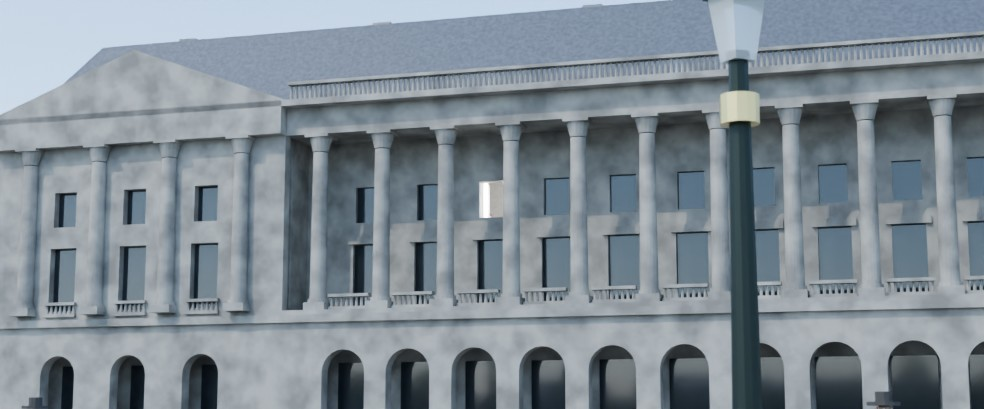
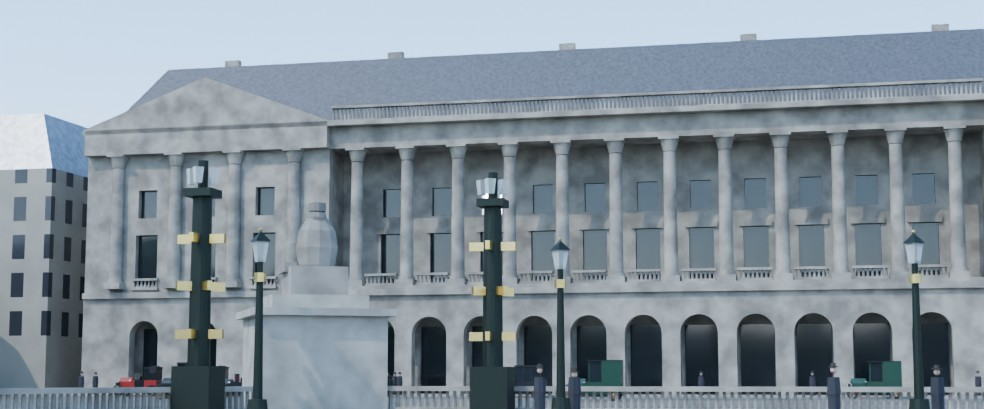
Concorde 1925 : place réorientée (212 m est-ouest, 359 m nord-sud)
Origine sur la coordonnée de l'obélisque fournie (48,8654948 ; 2,3211384).
Vérification des repères alentour : grille des Tuileries à 101 m à l'est,
chevaux de Marly à 110 m à l'ouest, statues des villes (octogone allongé
nord-sud), fontaines à 62 m, façades de Gabriel à 176 m, Jeu de Paume et
Orangerie, Petit Palais, Grand Palais, pont Alexandre-III recalés, Seine
au droit du pont de la Concorde. Trajectoires adaptées, vue de dessus.

Claude-Session: https://claude.ai/code/session_019p2ABcVa9ZL66LVkkoYHSq

diff --git a/blender/concorde_1925/geo.py b/blender/concorde_1925/geo.py
@@ -21,9 +21,9 @@ from __future__ import annotations
 
 import math
 
-# Obélisque de Louxor (Wikimedia Commons : 48° 51′ 55,71″ N, 2° 19′ 16,08″ E)
-LAT0 = 48.865475
-LON0 = 2.321133
+# Obélisque de Louxor (coordonnée fournie par la production)
+LAT0 = 48.8654948
+LON0 = 2.3211384
 AXIS_AZIMUTH_DEG = 25.6  # azimut de +V (0° = nord, sens horaire)
 
 M_PER_DEG_LAT = 111_200.0
@@ -41,25 +41,32 @@ def latlon_to_place(lat: float, lon: float) -> tuple[float, float]:
 
 
 # --- La place ---------------------------------------------------------------
-# Emprise totale de la place, fossés de Gabriel compris (comblés en 1854) :
-# 359 × 212 m.
-PLACE_HALF_U = 179.5
-PLACE_HALF_V = 106.0
+# La place mesure 212 m d'est en ouest (de la grille des Tuileries aux chevaux
+# de Marly) et 359 m du nord au sud (des façades de Gabriel au parapet de la
+# Seine). Positions de contrôle, en mètres dans le repère place :
+#   grille des Tuileries / pont tournant (48,865089 N ; 2,322375 E) → u = +101
+#   Renommée de Coysevox (48,865278 N ; 2,322500 E)               → (100, 21)
+#   statue de Strasbourg (48,86580 N ; 2,32270 E)                  → (88, 80)
+#   statue de Brest (48,86650 N ; 2,32060 E)                       → (-84, 84)
+#   statue de Lille (48,86620 N ; 2,32270 E)                       → (69, 120)
+#   statue de Rouen (48,86670 N ; 2,32100 E)                       → (-68, 119)
+#   statue de Marseille (48,864223 N ; 2,321256 E)                 → (68, -122)
+# Emprise de la place, anciens fossés compris (comblés en 1854).
+PLACE_HALF_U = 106.0
+PLACE_HALF_V = 140.0
 # Octogone intérieur bordé de balustrades ; les guérites des huit statues des
-# villes occupent ses sommets. Les statues de Strasbourg (48,86580 N ;
-# 2,32270 E) et de Brest (48,86650 N ; 2,32060 E) donnent le côté nord à
-# v ≈ 85 m, u ≈ ±86 m ; les fossés faisaient une vingtaine de mètres de large,
-# d'où les côtés est et ouest à u ≈ ±160 m.
-PLACE_INNER = [(86.0, -85.0), (160.0, -35.0), (160.0, 35.0), (86.0, 85.0),
-               (-86.0, 85.0), (-160.0, 35.0), (-160.0, -35.0), (-86.0, -85.0)]
-# Statue de chaque sommet de PLACE_INNER, dans le même ordre.
-PLACE_INNER_STATUES = ("Marseille", "Lyon", "Lille", "Strasbourg",
-                       "Brest", "Rouen", "Nantes", "Bordeaux")
+# villes occupent ses sommets (ordre trigonométrique depuis le sud-est).
+PLACE_INNER = [(69.0, -120.0), (87.0, -81.0), (87.0, 81.0), (69.0, 120.0),
+               (-69.0, 120.0), (-87.0, 81.0), (-87.0, -81.0), (-69.0, -120.0)]
+PLACE_INNER_STATUES = ("Marseille", "Lyon", "Strasbourg", "Lille",
+                       "Rouen", "Brest", "Nantes", "Bordeaux")
+TUILERIES_GATE_U = 101.0
+MARLY_U = -110.0
 
 # Fontaines de Hittorff (1840), sur l'axe rue Royale / pont
-# (Fontaine des Fleuves : 48,865992 N ; 2,321506 E → 64 m de l'obélisque).
-FOUNTAIN_NORTH_V = 64.0   # Fontaine des Fleuves
-FOUNTAIN_SOUTH_V = -64.0  # Fontaine des Mers
+# (Fontaine des Fleuves : 48,865992 N ; 2,321506 E).
+FOUNTAIN_NORTH_V = 62.0   # Fontaine des Fleuves
+FOUNTAIN_SOUTH_V = -62.0  # Fontaine des Mers
 
 # Obélisque (sans le pyramidion doré, posé en 1998).
 OBELISK_SHAFT_H = 22.83
@@ -69,9 +76,10 @@ OBELISK_PEDESTAL_H = 9.2
 
 # --- Palais de Gabriel (Hôtel de la Marine à l'est, Crillon à l'ouest) ------
 # Façade sur la place (plan des colonnes) et profondeur des bâtiments.
-# Centres des bâtiments : Hôtel de la Marine (48,866778 N ; 2,323083 E) et
-# Crillon (48,867337 N ; 2,321149 E), soit v ≈ 190 m pour ~85 m de profondeur.
-GABRIEL_FACADE_V = 148.0
+# Repères : Hôtel de la Marine (48,866778 N ; 2,323083 E) → (67, 190) et
+# Crillon (48,867337 N ; 2,321149 E) → (-88, 185) ; la façade ferme la place à
+# 176 m au nord (359 m jusqu'au parapet de la Seine).
+GABRIEL_FACADE_V = 176.0
 GABRIEL_DEPTH = 75.0
 RUE_ROYALE_HALF_W = 14.0
 GABRIEL_WIDTH = 96.0  # chaque palais
@@ -94,7 +102,7 @@ SEINE_AXIS_LATLON = (
     (48.85840, 2.33400),  # pont du Carrousel
     (48.85960, 2.32900),  # pont Royal
     (48.86160, 2.32420),  # passerelle Solférino
-    (48.86330, 2.32000),  # pont de la Concorde (centre : 48,8635 N ; 2,3196 E)
+    (48.86346, 2.32000),  # pont de la Concorde (centre : 48,8635 N ; 2,3196 E)
     (48.86380, 2.31700),
     (48.86370, 2.31350),  # pont Alexandre-III
     (48.86300, 2.30980),  # pont des Invalides
@@ -109,13 +117,13 @@ PALAIS_BOURBON_PORTICO_V = -365.0  # centre du palais : 48,862069 N ; 2,318681 E
 MADELEINE_V = latlon_to_place(48.87003, 2.32447)[1]  # centre de l'église
 INVALIDES_DOME = latlon_to_place(48.85500, 2.31250)
 TOUR_EIFFEL = latlon_to_place(48.85837, 2.29448)
-GRAND_PALAIS = latlon_to_place(48.86612, 2.31253)
-PETIT_PALAIS = latlon_to_place(48.86604, 2.31476)
-PONT_ALEXANDRE_III = latlon_to_place(48.86370, 2.31350)
-# Terrasses des Tuileries : bâtiments posés au bord est de la place.
-JEU_DE_PAUME = (232.0, 88.0)
-ORANGERIE = (232.0, -98.0)
-RIVOLI_FACADE_V = 135.0         # alignement des arcades de la rue de Rivoli
+GRAND_PALAIS = latlon_to_place(48.866161, 2.312553)
+PETIT_PALAIS = latlon_to_place(48.86604, 2.31453)
+PONT_ALEXANDRE_III = latlon_to_place(48.863611, 2.313611)
+# Terrasses des Tuileries, en surplomb du bord est de la place.
+JEU_DE_PAUME = latlon_to_place(48.86583, 2.32389)
+ORANGERIE = latlon_to_place(48.86378, 2.32253)
+RIVOLI_FACADE_V = 160.0         # alignement des arcades de la rue de Rivoli
 CHAMPS_ELYSEES_HALF_W = 35.0
 
 # --- Date et lieu de la prise de vues --------------------------------------

diff --git a/blender/concorde_1925/city.py b/blender/concorde_1925/city.py
@@ -189,8 +189,9 @@ def place_layout(coll, M):
     inner = inset_outline(outer, 10.0)
     bm = bmesh.new()   # 0 trottoir, 1 pierre (balustrades)
     lamp_pts, rostral_pts, vertices, baluster_pts = [], [], [], []
-    gaps = {3: 17.0, 7: 17.0}      # rue Royale au nord, pont au sud
-    skip = {1, 5}                  # côtés est (Tuileries) et ouest (Champs-Élysées)
+    # ouvertures : Tuileries (est), rue Royale (nord), Champs-Élysées (ouest), pont (sud)
+    gaps = {1: 30.0, 3: 17.0, 5: 30.0, 7: 17.0}
+    skip = set()
     for i in range(8):
         a0, a1 = Vector(outer[i]), Vector(outer[(i + 1) % 8])
         b0, b1 = Vector(inner[i]), Vector(inner[(i + 1) % 8])
@@ -238,8 +239,6 @@ def place_layout(coll, M):
             lamp_pts.append((14.5 * math.cos(a), v + 11.5 * math.sin(a)))
     # trottoirs devant les palais de Gabriel et le long des Tuileries
     add_box(bm, (0, geo.GABRIEL_FACADE_V - 4.0, 0.075), (440, 8.0, 0.15), 0)
-    for s in (-1, 1):
-        add_box(bm, (geo.PLACE_HALF_U + 4, s * 70, 0.075), (8, 70, 0.15), 0)
     obj = object_from_bmesh("TERRE_PLEINS_BALUSTRADES", bm, coll)
     obj.data.materials.append(M["trottoir"])
     obj.data.materials.append(M["pierre"])
@@ -253,27 +252,30 @@ def place_layout(coll, M):
 def tuileries_entrance(coll, M):
     """Terrasses du Jeu de Paume et de l'Orangerie, grille et Renommées."""
     bm = bmesh.new()  # 0 pierre, 1 gravier, 2 vitre, 3 ardoise
-    x0 = geo.PLACE_HALF_U + 8
-    for s, (cu, cv) in ((1, geo.JEU_DE_PAUME), (-1, geo.ORANGERIE)):
-        v_in, v_out = s * 26, s * 110
+    x0 = geo.TUILERIES_GATE_U + 5   # mur de soutènement des terrasses
+    for s, (cu, cv), length, (v_in, v_out) in (
+            (1, geo.JEU_DE_PAUME, 80.0, (92.0, 140.0)),
+            (-1, geo.ORANGERIE, 100.0, (-92.0, -148.0))):
         add_box(bm, (x0 + 175, (v_in + v_out) / 2, 2.5),
                 (350, abs(v_out - v_in), 5.0), 0)
         add_box(bm, (x0 + 175, (v_in + v_out) / 2, 5.02),
                 (348, abs(v_out - v_in) - 2, 0.04), 1)
-        # bâtiment (Jeu de Paume / Orangerie) : 100 × 18 m
-        add_box(bm, (cu, cv, 5 + 6.0), (100, 18, 12.0), 0)
-        add_prism(bm, [(cu - 50, cv - 9), (cu + 50, cv - 9), (cu + 50, cv + 9),
-                       (cu - 50, cv + 9)], 17.0, 20.0, 3,
-                  top_outline=[(cu - 47, cv - 2), (cu + 47, cv - 2),
-                               (cu + 47, cv + 2), (cu - 47, cv + 2)])
-        for k in range(12):
-            add_box(bm, (cu - 44 + k * 8, cv - s * 9.05, 11.0),
+        # bâtiment (Jeu de Paume / Orangerie), 20 m de large
+        h = length / 2
+        add_box(bm, (cu, cv, 5 + 6.0), (length, 20, 12.0), 0)
+        add_prism(bm, [(cu - h, cv - 10), (cu + h, cv - 10), (cu + h, cv + 10),
+                       (cu - h, cv + 10)], 17.0, 20.0, 3,
+                  top_outline=[(cu - h + 3, cv - 2), (cu + h - 3, cv - 2),
+                               (cu + h - 3, cv + 2), (cu - h + 3, cv + 2)])
+        for k in range(int(length / 8) - 1):
+            add_box(bm, (cu - h + 6 + k * 8, cv - s * 10.05, 11.0),
                     (2.4, 0.1, 6.5), 2)
         # pilier de la grille portant une Renommée de Coysevox
-        add_box(bm, (x0 + 2, s * 20, 3.0), (3.0, 3.0, 6.0), 0)
-        add_sphere(bm, (x0 + 2, s * 20, 7.5), 1.2, 0, 10, (1.6, 0.8, 1.0))
-        add_box(bm, (x0 + 2, s * 20 + s * 0.4, 9.0), (0.5, 3.4, 1.6), 0)
-    add_box(bm, (x0 + 700, 0, -0.05), (1400, 52, 0.1), 1)  # allée centrale
+        gx = geo.TUILERIES_GATE_U
+        add_box(bm, (gx, s * 21, 3.0), (3.0, 3.0, 6.0), 0)
+        add_sphere(bm, (gx, s * 21, 7.5), 1.2, 0, 10, (1.6, 0.8, 1.0))
+        add_box(bm, (gx, s * 21 + s * 0.4, 9.0), (0.5, 3.4, 1.6), 0)
+    add_box(bm, (x0 + 700, 0, 0.02), (1400, 52, 0.04), 1)  # allée centrale
     obj = object_from_bmesh("TUILERIES_TERRASSES", bm, coll)
     for m in (M["pierre_claire"], M["gravier"], M["vitre"], M["ardoise"]):
         obj.data.materials.append(m)
@@ -283,7 +285,7 @@ def marly_horses(coll, M):
     """Chevaux de Marly (Coustou) à l'entrée des Champs-Élysées."""
     bm = bmesh.new()
     for s in (-1, 1):
-        x, y = -geo.PLACE_HALF_U - 4, s * (geo.CHAMPS_ELYSEES_HALF_W + 4)
+        x, y = geo.MARLY_U, s * (geo.CHAMPS_ELYSEES_HALF_W + 4)
         add_box(bm, (x, y, 2.5), (5.0, 7.0, 5.0), 0)
         add_box(bm, (x, y, 5.15), (5.6, 7.6, 0.3), 0)
         add_sphere(bm, (x, y, 7.0), 1.1, 0, 12, (1.0, 2.4, 1.1))      # corps
@@ -482,7 +484,7 @@ def city_blocks(coll, M, seed=1925):
                    rnd.uniform(19, 22), rnd)
             v += d + 0.3
     # Rue de Rivoli (arcades) au nord des Tuileries
-    u = 130
+    u = 170
     while u < 1300:
         w = rnd.uniform(30, 45)
         _block(bm, u + w / 2, geo.RIVOLI_FACADE_V + 22, w, 44, 21.0, rnd,

diff --git a/blender/concorde_1925/vegetation.py b/blender/concorde_1925/vegetation.py
@@ -70,29 +70,31 @@ def plant(coll, M, seed=1925):
             while v <= v1:
                 if rnd.random() < keep:
                     pts.append((u + rnd.uniform(-jitter, jitter),
-                                v + rnd.uniform(-jitter, jitter)))
+                                v + rnd.uniform(-jitter, jitter), 0.0))
                 v += step
             u += step
 
-    def row(p0, p1, step):
+    def row(p0, p1, step, z=0.0):
         a, b = Vector(p0), Vector(p1)
         n = int((b - a).length / step)
         for i in range(n + 1):
             p = a.lerp(b, i / max(1, n))
-            pts.append((p.x, p.y))
+            pts.append((p.x, p.y, z))
 
     hw = geo.CHAMPS_ELYSEES_HALF_W
     # Jardins des Champs-Élysées (bosquets autour des pavillons, pelouses)
-    grid(-1150, -205, hw + 14, 175, 11, keep=0.75, jitter=3)
-    grid(-1150, -205, -230, -hw - 14, 11, keep=0.75, jitter=3)
+    w0 = geo.MARLY_U - 15
+    grid(-1150, w0, hw + 14, 175, 11, keep=0.75, jitter=3)
+    grid(-1150, w0, -230, -hw - 14, 11, keep=0.75, jitter=3)
     for s in (-1, 1):
-        row((-1300, s * (hw + 4)), (-200, s * (hw + 4)), 9)
-        row((-1300, s * (hw + 10)), (-200, s * (hw + 10)), 9)
+        row((-1300, s * (hw + 4)), (w0, s * (hw + 4)), 9)
+        row((-1300, s * (hw + 10)), (w0, s * (hw + 10)), 9)
     # Tuileries : quinconces de marronniers au-delà du Grand Bassin octogonal
-    grid(420, 1150, 32, 100, 9, keep=0.95, jitter=1)
-    grid(420, 1150, -100, -32, 9, keep=0.95, jitter=1)
-    for s in (-1, 1):
-        row((200, s * 104), (1150, s * 104), 8)
+    grid(420, 1150, 32, 86, 9, keep=0.95, jitter=1)
+    grid(420, 1150, -86, -32, 9, keep=0.95, jitter=1)
+    # alignements sur les terrasses (5 m au-dessus du jardin)
+    for s, v in ((1, 98.0), (-1, -98.0)):
+        row((250, v), (455, v), 8, z=5.0)
     # Quais (rangées de platanes) et Cours la Reine
     for k, p in enumerate(RIVER[:-1]):
         q = RIVER[k + 1]
@@ -107,7 +109,7 @@ def plant(coll, M, seed=1925):
                 x = c + n * side * off
                 if abs(x.x) < 30:
                     continue  # débouché du pont de la Concorde
-                pts.append((x.x, x.y))
+                pts.append((x.x, x.y, 0.0))
     # Esplanade des Invalides : quatre rangées dans l'axe
     du, dv = geo.INVALIDES_DOME
     bridge = Vector(geo.PONT_ALEXANDRE_III)
@@ -118,11 +120,11 @@ def plant(coll, M, seed=1925):
         row(base + axis_n * off, bridge - axis.normalized() * 90 + axis_n * off,
             10)
     n = 0
-    for u, v in pts:
+    for u, v, z in pts:
         if not _ok(u, v):
             continue
         p = rnd.choice(protos)
-        o = instance(p, f"ARBRE_{n:04d}", coll, (u, v, 0),
+        o = instance(p, f"ARBRE_{n:04d}", coll, (u, v, z),
                      rnd.uniform(0, math.tau), rnd.uniform(0.85, 1.25))
         o.hide_viewport = False
         n += 1

diff --git a/blender/concorde_1925/vehicles.py b/blender/concorde_1925/vehicles.py
@@ -489,28 +489,30 @@ def make_path(name, points, coll, frame_obj):
 # Trajectoires (repère place). Circulation à droite.
 ROUTES = {
     # Champs-Élysées → rue de Rivoli (vers l'est), au sud de l'obélisque
-    "CE_VERS_RIVOLI": [(-1100, -8), (-400, -8), (-170, -10), (-60, -22),
-                       (0, -24), (60, -22), (140, -18), (172, 0),
-                       (176, 100), (250, 122), (1300, 122)],
+    "CE_VERS_RIVOLI": [(-1100, -8), (-400, -8), (-110, -10), (-60, -22),
+                       (0, -24), (60, -22), (96, -10), (98, 60),
+                       (104, 140), (150, 148), (1300, 148)],
     # Quai des Tuileries → Champs-Élysées (vers l'ouest), au nord de l'obélisque
-    "QUAI_VERS_CE": [(1200, -150), (400, -150), (230, -140), (172, -30),
-                     (150, 20), (60, 24), (0, 26), (-60, 24), (-170, 10),
-                     (-400, 8), (-1100, 8)],
+    "QUAI_VERS_CE": [(1200, -187), (800, -214), (500, -186), (300, -165),
+                     (150, -155), (110, -120), (97, -60), (96, 24), (60, 24),
+                     (0, 26), (-60, 24), (-110, 10), (-400, 8), (-1100, 8)],
     # Rue Royale → pont de la Concorde (vers le sud), à l'ouest de l'axe
-    "ROYALE_VERS_PONT": [(-6, 650), (-6, 200), (-8, 110), (-24, 64),
-                         (-24, 30), (-24, -30), (-24, -64), (-6, -110),
-                         (-5, -300), (-5, -340), (-60, -350), (-200, -385),
+    "ROYALE_VERS_PONT": [(-6, 650), (-6, 200), (-8, 135), (-24, 62),
+                         (-24, 30), (-24, -30), (-24, -62), (-6, -135),
+                         (-5, -300), (-5, -335), (-60, -345), (-200, -380),
                          (-400, -500)],
     # Pont → rue Royale (vers le nord), à l'est de l'axe
-    "PONT_VERS_ROYALE": [(300, -370), (80, -352), (5, -345), (5, -150),
-                         (24, -64), (24, -30), (24, 30), (24, 64), (8, 110),
+    "PONT_VERS_ROYALE": [(300, -365), (80, -345), (5, -338), (5, -150),
+                         (24, -62), (24, -30), (24, 30), (24, 62), (8, 135),
                          (6, 200), (6, 650)],
     # Devant les palais de Gabriel (vers l'ouest), puis avenue Gabriel
-    "GABRIEL_OUEST": [(600, 124), (180, 124), (60, 128), (-60, 128),
-                      (-180, 124), (-260, 130), (-900, 150)],
+    "GABRIEL_OUEST": [(600, 150), (150, 152), (60, 156), (-60, 156),
+                      (-150, 152), (-260, 155), (-900, 170)],
     # Cours la Reine / quai (vers l'est)
-    "COURS_LA_REINE_EST": [(-900, -200), (-300, -140), (-150, -128),
-                           (0, -128), (200, -150), (1200, -160)],
+    "COURS_LA_REINE_EST": [(-900, -650), (-700, -515), (-450, -325),
+                           (-300, -240), (-150, -168), (0, -162), (150, -165),
+                           (300, -175), (500, -196), (800, -224),
+                           (1200, -197)],
 }
 
 

diff --git a/blender/concorde_1925/build.py b/blender/concorde_1925/build.py
@@ -93,8 +93,8 @@ def build(args):
                                   rot)
     monuments.scatter_people(c_place, M, [
         (-170, 170, geo.GABRIEL_FACADE_V - 7.5, geo.GABRIEL_FACADE_V - 1),
-        (-80, 80, 77, 84), (-80, 80, -84, -77),
-        (-15, 15, -11, 11), (-12, 12, 52, 76), (-12, 12, -76, -52)], 140)
+        (-60, 60, 111, 118), (-60, 60, -118, -111),
+        (-15, 15, -11, 11), (-12, 12, 50, 74), (-12, 12, -74, -50)], 140)
 
     _step("monuments")
     monuments.obelisk(c_mon, M)

diff --git a/blender/concorde_1925/README.md b/blender/concorde_1925/README.md
@@ -26,13 +26,17 @@ La génération prend environ 15 s. Le fichier pèse environ 12 Mo (il est ignor
   (`geo.py`) : la Madeleine, le Palais-Bourbon, le dôme des Invalides (1,34 km),
   la tour Eiffel (2,1 km), le Grand et le Petit Palais, le pont Alexandre-III et le cours de la
   Seine.
-- Dimensions, recalées sur les coordonnées des monuments :
-  - emprise de la place, anciens fossés compris : 359 × 212 m ;
-  - octogone intérieur à balustrades : côté nord à 85 m de l'obélisque (statues de Strasbourg
-    et de Brest), côtés est et ouest à 160 m ;
-  - fontaines à 64 m de l'obélisque, sur l'axe ;
-  - façades des palais de Gabriel à 148 m ;
-  - centre du pont de la Concorde à 247 m, Palais-Bourbon à 420 m, Madeleine à 562 m ;
+- Origine : l'obélisque, à **48,8654948 N ; 2,3211384 E**.
+- Dimensions, recalées sur les coordonnées publiées des monuments (contrôle dans `geo.py`) :
+  - la place mesure 212 m d'est en ouest, de la grille des Tuileries (u = +101 m) aux chevaux de
+    Marly (u = −110 m), et 359 m du nord au sud, des façades de Gabriel (v = +176 m) au parapet
+    de la Seine (v ≈ −183 m) ;
+  - octogone intérieur à balustrades, allongé nord-sud, avec les guérites des statues à ses
+    sommets : Lille, Rouen, Marseille et Bordeaux à (±69 ; ±120) ; Strasbourg, Brest, Lyon et
+    Nantes à (±87 ; ±81) ;
+  - fontaines à 62 m de l'obélisque, sur l'axe ;
+  - Jeu de Paume et Orangerie sur les terrasses des Tuileries, centrés à environ 170 m à l'est ;
+  - centre du pont de la Concorde à 249 m, Palais-Bourbon à 421 m, Madeleine à 560 m ;
   - obélisque de 22,83 m sur un socle de 9,2 m ;
   - palais de Gabriel de 96 m chacun de part et d'autre de la rue Royale, avec une colonnade
     de 12 colonnes corinthiennes entre deux avant-corps à fronton.
@@ -131,4 +135,4 @@ l'axe, donc sur l'Hôtel de la Marine. Depuis le Crillon (`CAM_05`), le dôme pa
 | `vegetation.py` | Arbres |
 | `vehicles.py` | Véhicules et circulation |
 | `scene_setup.py` | Caméras Alexa 65, soleil, ciel, brume, réglages de rendu |
-| `apercus/` | Aperçus basse définition de chaque caméra |
+| `apercus/` | Aperçus basse définition de chaque caméra et vue de dessus de la place |
